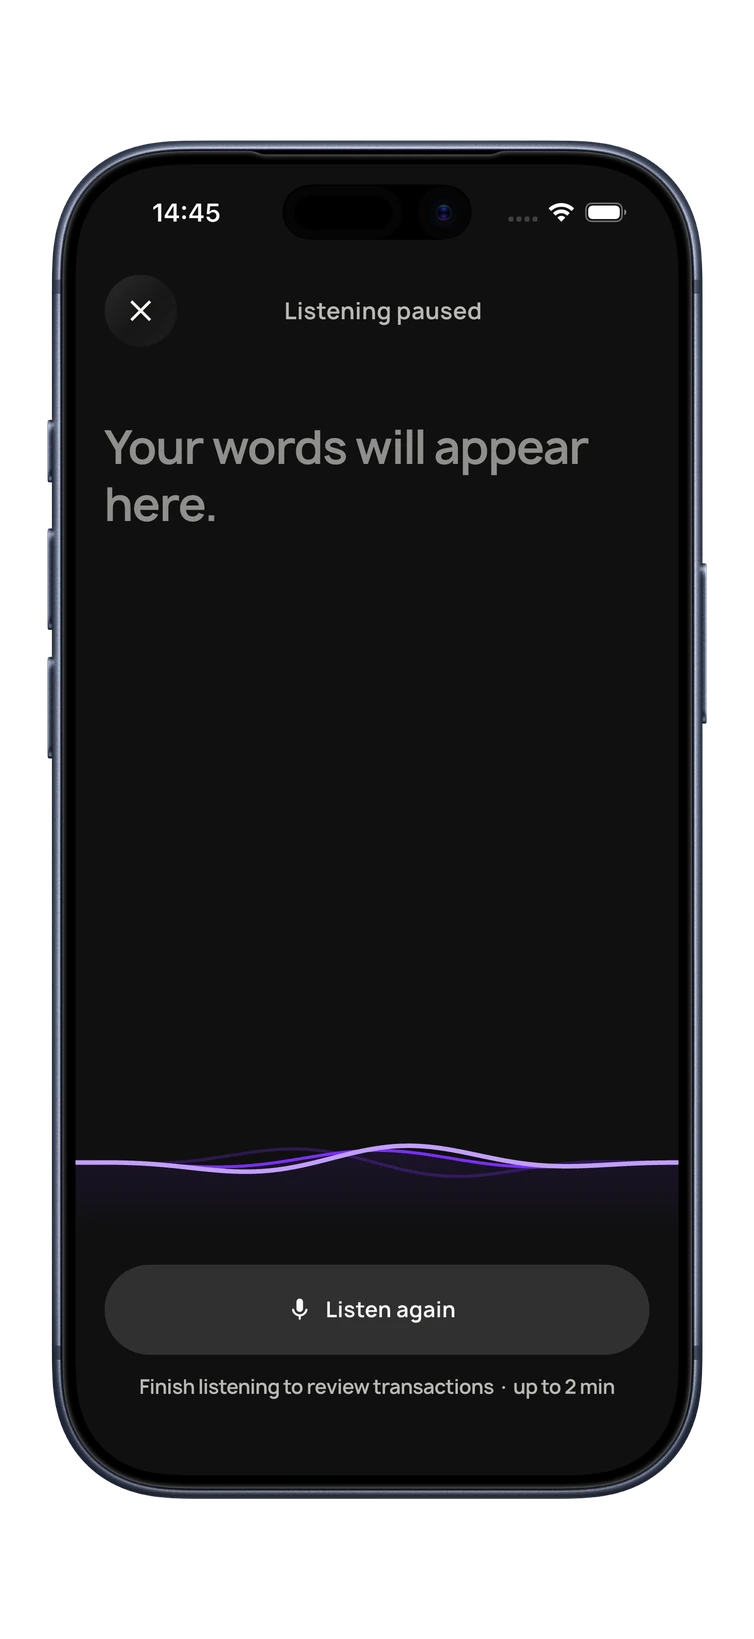
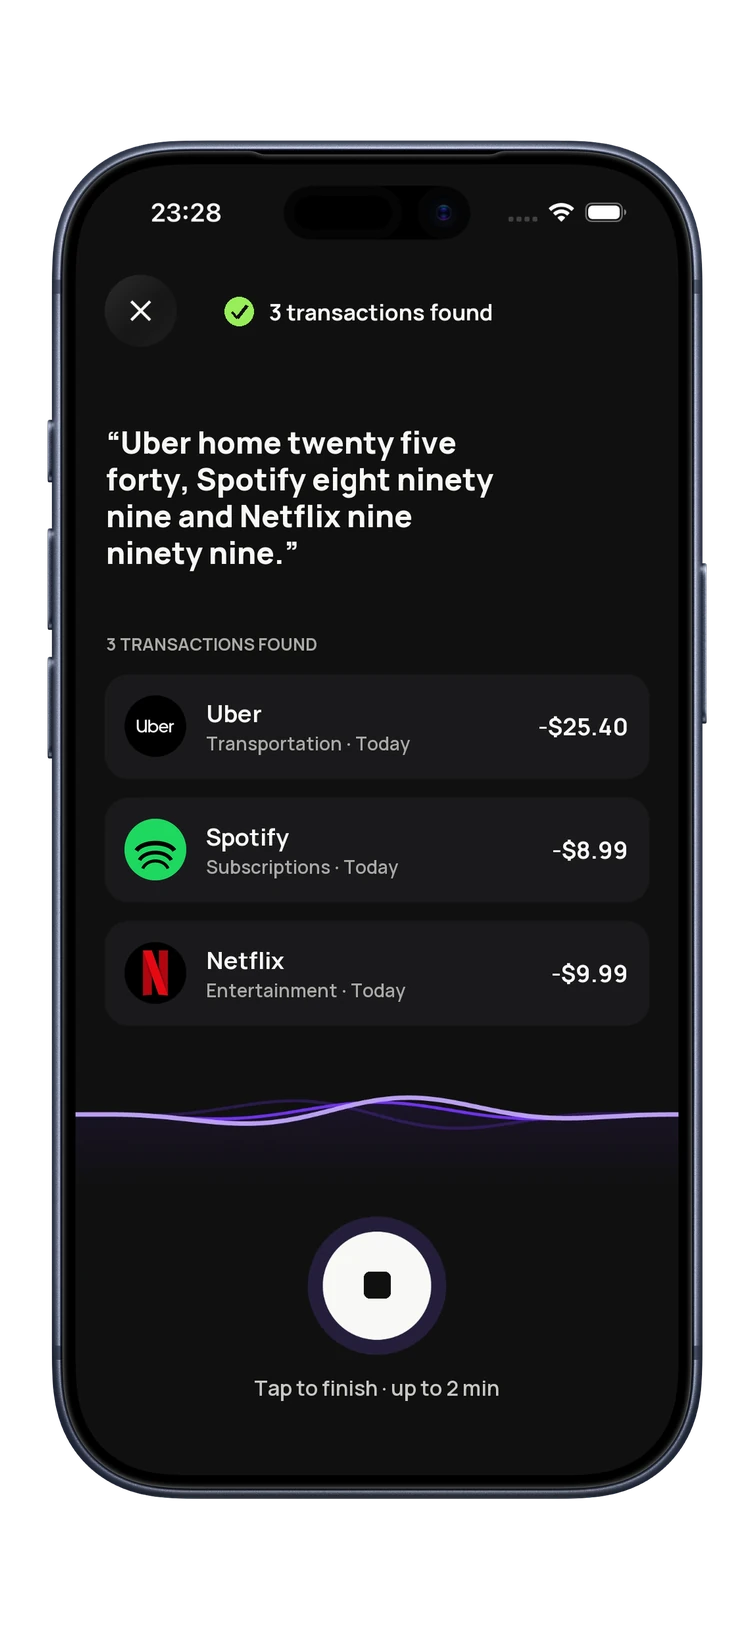
feat: show transcribed transactions on the voice screen

diff --git a/index.html b/index.html
@@ -103,13 +103,13 @@
     <div class="inputs__stage">
       <div class="iphone iphone--story">
         
-          <img class="state" data-state="0" src="src/images/app-live/mockup-voice.webp" alt="BudgetGo voice entry: your words will appear here, finish listening to review transactions" width="754" height="1639" loading="lazy" />
+          <img class="state" data-state="0" src="src/images/app-live/mockup-voice.webp" alt="BudgetGo voice entry: Uber home twenty five forty, Spotify eight ninety nine and Netflix nine ninety nine, turned into three transactions" width="754" height="1639" loading="lazy" />
           <img class="state" data-state="1" src="src/images/app-live/mockup-import.webp" alt="BudgetGo Import your data: choose bank statements, spreadsheets or receipt photos" width="754" height="1639" loading="lazy" />
           <img class="state" data-state="2" src="src/images/app-live/mockup-sms-automation.webp" alt="BudgetGo SMS Automation: SMS forwarding on, create automation and test connection" width="754" height="1639" loading="lazy" />
           <img class="state" data-state="3" src="src/images/app-live/mockup-data-hub.webp" alt="BudgetGo Data Hub: imports and exports, iOS automation, FinanceKit and bank connections" width="754" height="1639" loading="lazy" />
         
       </div>
-      <div class="overlay overlay--voice" data-overlay="0" aria-hidden="true"><span class="overlay__mic"><svg><use href="#i-mic"/></svg></span>“Coffee six forty and groceries fifty two eighty”</div>
+      <div class="overlay overlay--voice" data-overlay="0" aria-hidden="true"><span class="overlay__mic"><svg><use href="#i-mic"/></svg></span>“Uber home twenty five forty, Spotify and Netflix”</div>
       <div class="overlay overlay--files" data-overlay="1" aria-hidden="true">
         <span class="file"><svg viewBox="0 0 24 24"><path d="M8 16h8v2H8zm0-4h8v2H8zm6-10H6c-1.1 0-2 .9-2 2v16c0 1.1.89 2 1.99 2H18c1.1 0 2-.9 2-2V8l-6-6zm4 18H6V4h7v5h5v11z"/></svg><b>Statement.pdf</b></span>
         <span class="file"><svg viewBox="0 0 24 24"><path d="M10 10.02h5V21h-5zM17 21h3c1.1 0 2-.9 2-2v-9h-5v11zm3-18H5c-1.1 0-2 .9-2 2v3h19V5c0-1.1-.9-2-2-2zM3 19c0 1.1.9 2 2 2h3V10H3v9z" opacity=".9"/></svg><b>September.csv</b></span>

diff --git a/src/css/app-site-phone.css b/src/css/app-site-phone.css
@@ -24,7 +24,7 @@
 /* Per-step overlays that sit outside the screen, like annotations on the real UI. */
 .overlay { position: absolute; z-index: 3; display: flex; align-items: center; gap: 12px; padding: 12px 16px 12px 12px; border-radius: 22px; background: rgba(28, 28, 32, .9); backdrop-filter: blur(20px); -webkit-backdrop-filter: blur(20px); box-shadow: 0 24px 60px -16px rgba(0, 0, 0, .7); font-size: 14px; line-height: 1.4; opacity: 0; visibility: hidden; transform: translateY(14px); transition: opacity .5s var(--ease), transform .5s var(--ease), visibility .5s; }
 .overlay svg { width: 18px; height: 18px; }
-.overlay--voice { left: 0; top: 28%; max-width: 270px; }
+.overlay--voice { right: -4%; top: 63%; max-width: 270px; }
 .overlay__mic { display: grid; place-items: center; width: 38px; height: 38px; flex: none; border-radius: 50%; background: linear-gradient(135deg, #9d6bff, #6a2cf0); color: #fff; }
 .overlay--files { right: 0; top: 22%; flex-direction: column; align-items: stretch; gap: 8px; padding: 0; background: none; box-shadow: none; backdrop-filter: none; -webkit-backdrop-filter: none; }
 .file { display: flex; align-items: center; gap: 10px; padding: 10px 16px 10px 10px; border-radius: 18px; background: rgba(28, 28, 32, .92); box-shadow: 0 18px 40px -14px rgba(0, 0, 0, .7); }
@@ -39,7 +39,8 @@
 
 @media (max-width: 560px) {
   .iphone { --w: min(340px, 84vw); }
-  .overlay--voice, .overlay--hub { left: -4%; }
+  .overlay--hub { left: -4%; }
+  .overlay--voice { right: -4%; }
   .overlay--files { right: -6%; }
 }
 

diff --git a/src/css/app-site-sections.css b/src/css/app-site-sections.css
@@ -406,7 +406,7 @@ html.motion .privacy__text .w { opacity: .18; }
   .step__icon { width: 40px; height: 40px; }
   .step h3 { font-size: 17px; }
   .overlay { font-size: 12px; padding: 10px 12px 10px 10px; }
-  .overlay--voice { left: 0; max-width: 220px; }
+  .overlay--voice { right: 0; left: auto; max-width: 220px; }
   .overlay--files { right: 0; }
   .file { padding: 8px 12px 8px 8px; }
   .file svg { width: 28px; height: 28px; padding: 6px; }
